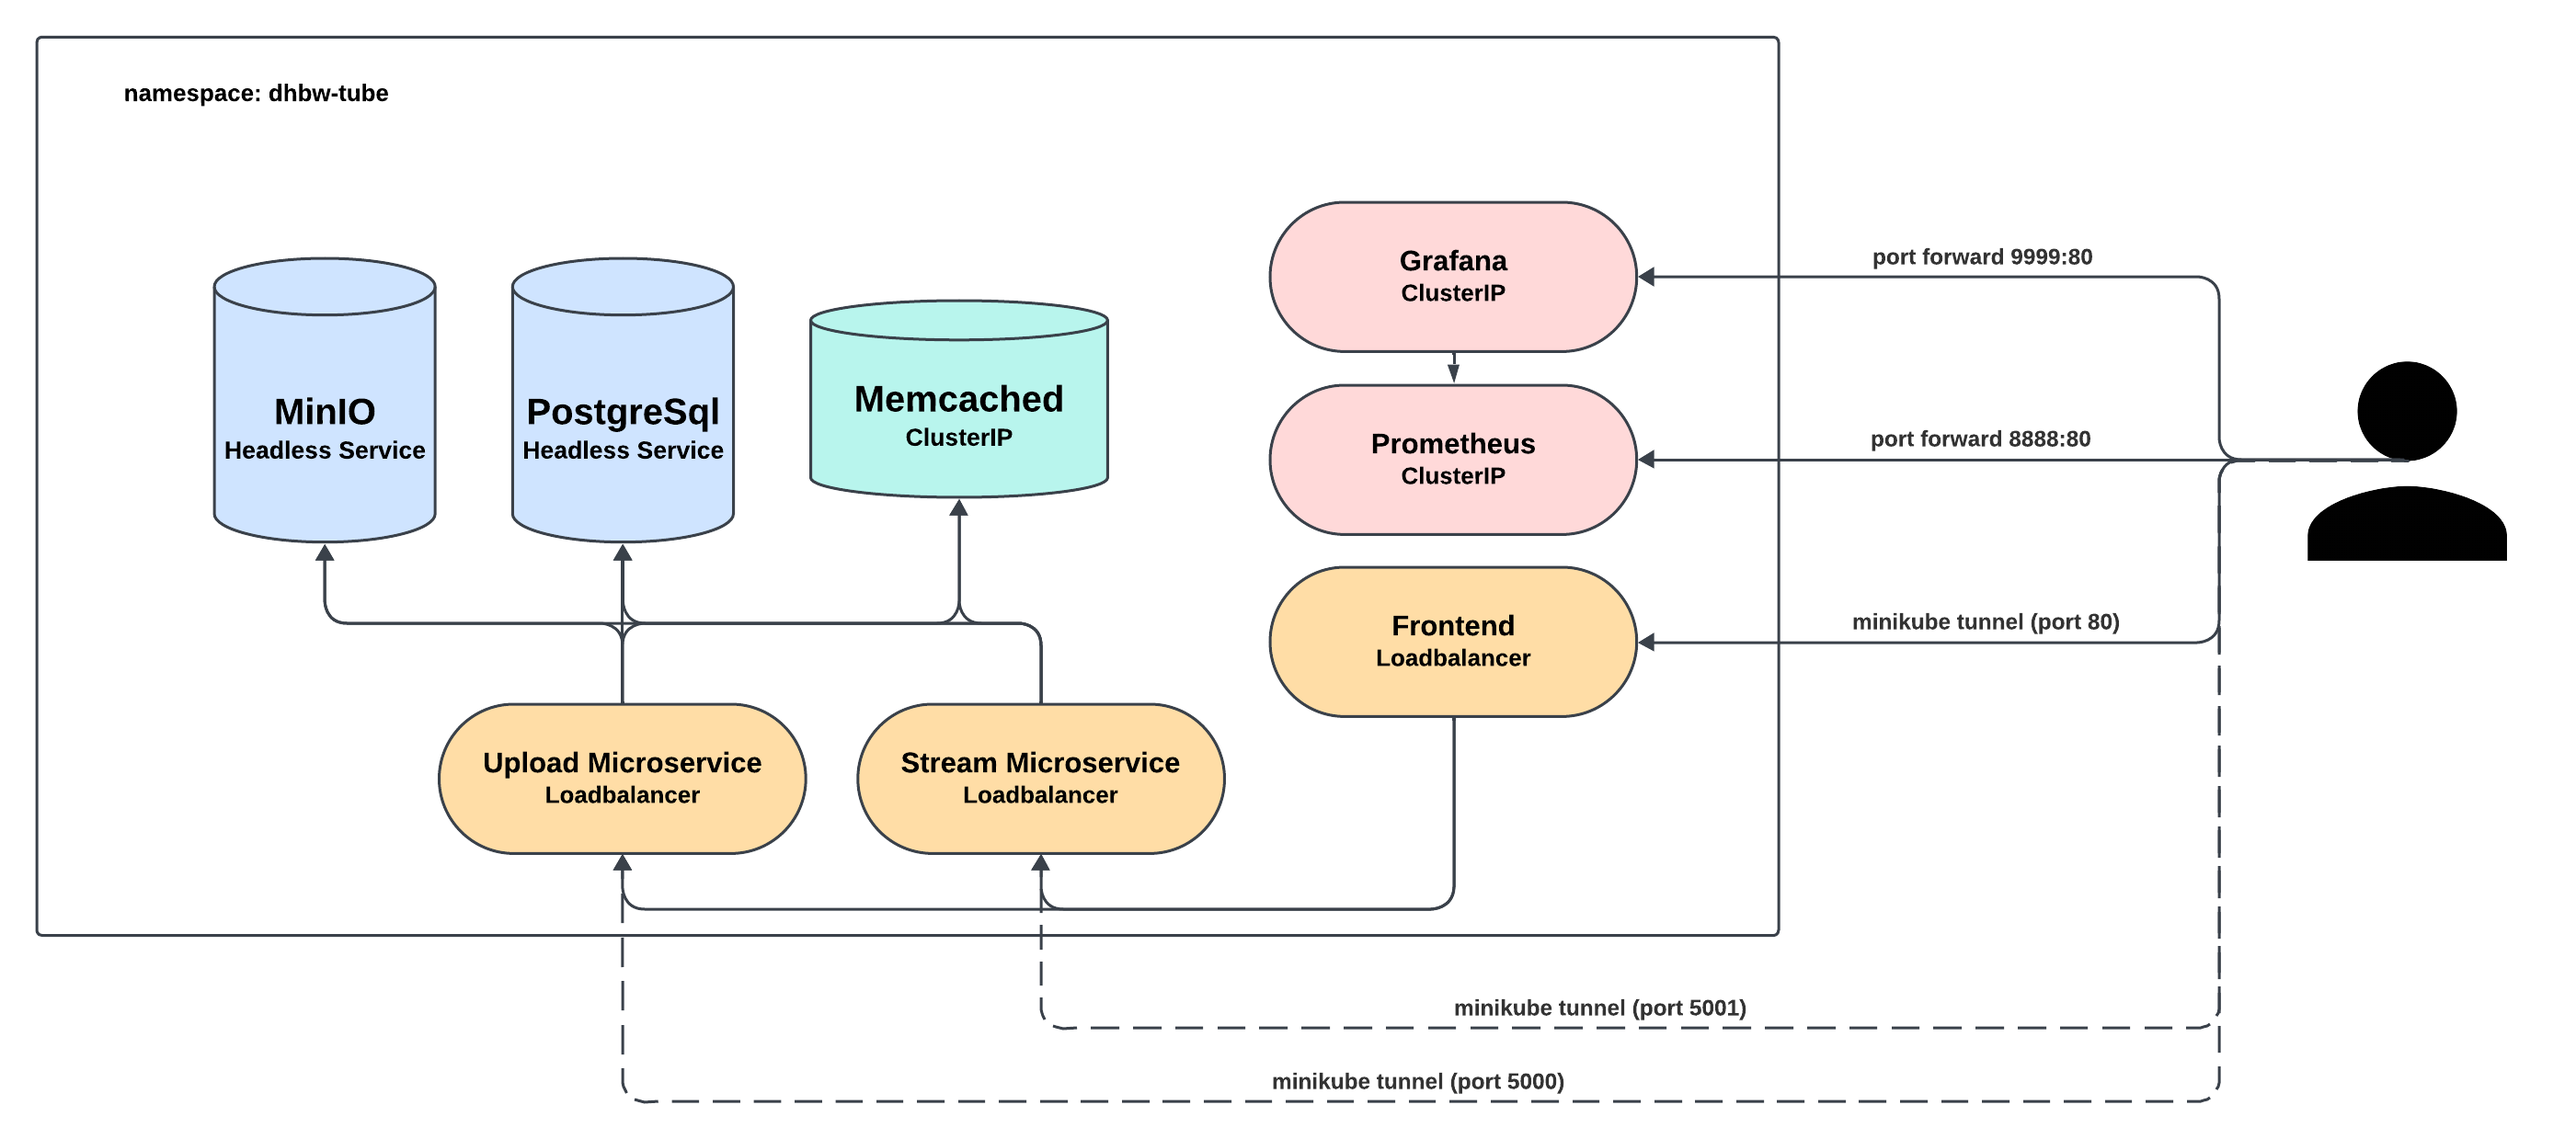
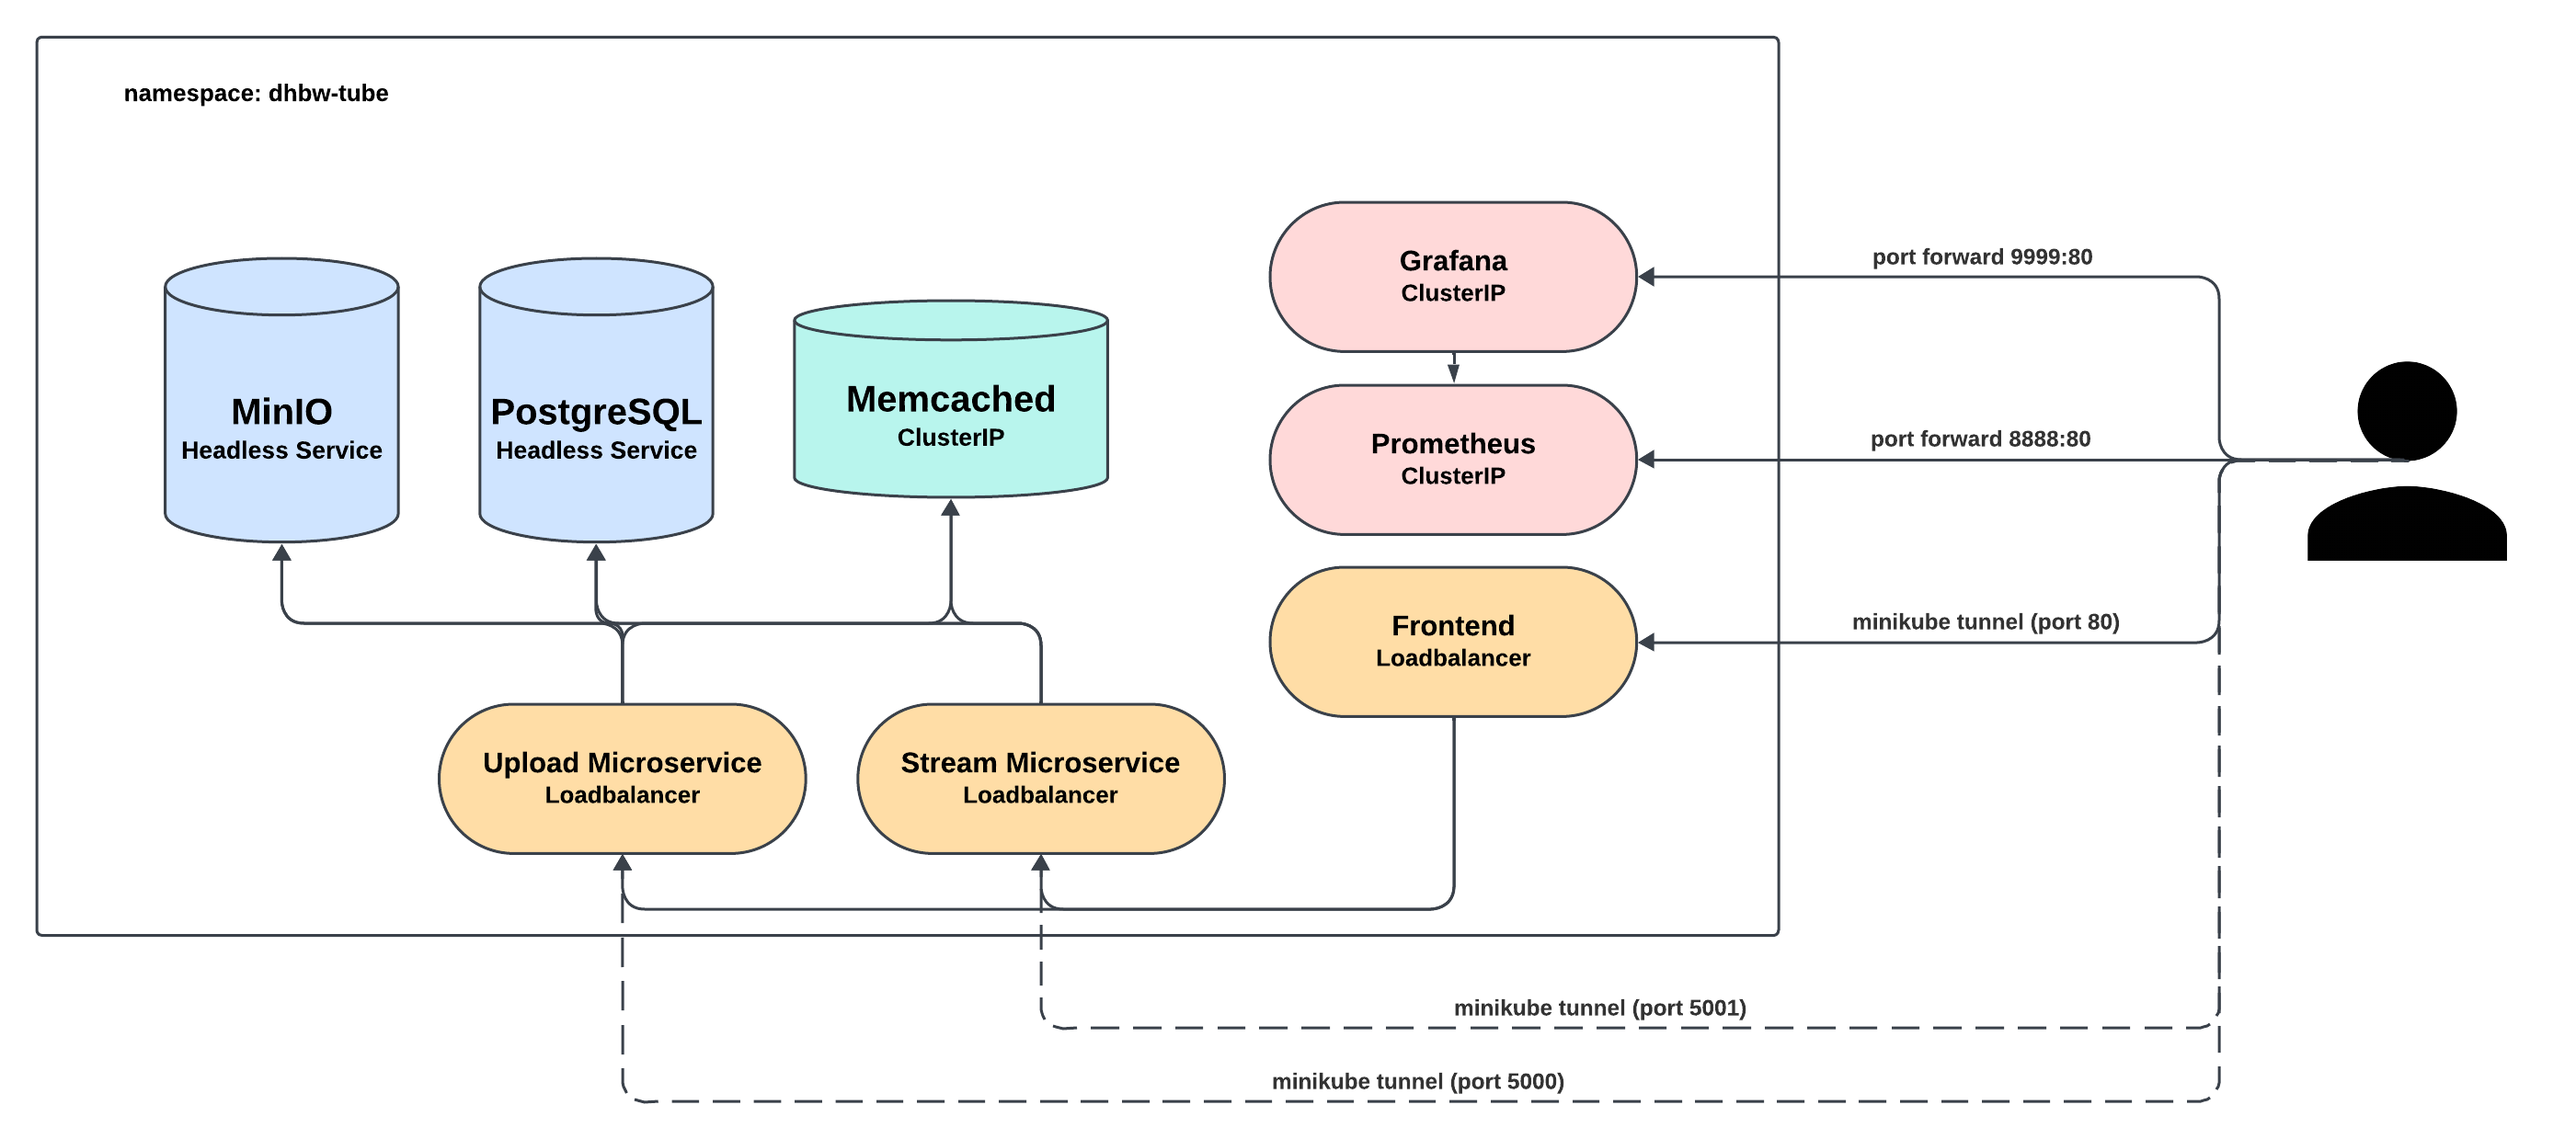
Adjusted readme

Changed region(s): [[0.0621, 0.2147, 0.4348, 0.5521], [0.3417, 0.5214, 0.3727, 0.5521], [0.3417, 0.4294, 0.3727, 0.46]]

diff --git a/README.md b/README.md
@@ -63,8 +63,8 @@ powershell -File run-dhbw-tube.ps1
 <p style="margin-top: 40px"></p>
 
 These commands each execute a script that automates the setup of a Kubernetes environment using Minikube, Skaffold, and Helm. The script performs the following steps:
-1. **Start Minikube**: The script checks if Minikube is already running. If Minikube is not running, it starts Minikube.
-2. **Delete Namespace**: If the **dhbw-tube** namespace already exists, it is deleted. The script waits until the namespace is completely removed to ensure a clean environment.
+1. **Start Minikube**: The script checks if Minikube is already running. If Minikube is not running, Minikube will be started.
+2. **Delete Namespace**: If the **dhbw-tube** namespace already exists in the kubernetes node, it will be deleted. The script waits until the namespace is completely removed to ensure a clean environment.
 3. **Create Kubernetes Environment**: The script uses **skaffold** to create the Kubernetes environment according to the configuration in the **skaffold.yaml** file.
 4. **Add Prometheus Helm Repository**: The script checks if the **Prometheus Helm Repository** has already been added. If not, it adds the repository and updates the Helm repositories.
 5. **Add Grafana Helm Repository**: The script checks if the **Grafana Helm Repository** has already been added. If not, it adds the repository and updates the Helm repositories.
@@ -109,9 +109,9 @@ powershell -File run-k8s-dev.ps1
 
 These commands each execute a script that automates the setup of a Kubernetes environment using Minikube, Helm, and Skaffold. The script performs the following steps:
 1. **Start Minikube**: 
-The script checks if Minikube is already running. If Minikube is not running, it starts Minikube.
+The script checks if Minikube is already running. If Minikube is not running, Minikube will be started.
 2. **Delete Namespace**:
-If the **dhbw-tube** namespace already exists, it is deleted. The script waits until the namespace is completely removed to ensure a clean environment.
+If the **dhbw-tube** namespace already exists, it will be deleted. The script waits until the namespace is completely removed to ensure a clean environment.
 3. **Add Prometheus Helm Repository**:
 The script checks if the **Prometheus Helm Repository** has already been added. If not, it adds the repository and updates the Helm repositories.
 4. **Add Grafana Helm Repository**:
@@ -135,10 +135,11 @@ To add Prometheus and Grafana, you can use the following commands:
 ```
 helm install prometheus prometheus-community/prometheus \
   --namespace dhbw-tube \
+  -f k8s/prometheus/prometheus-values.yaml \
   --set server.global.scrape_interval="15s"
 helm install grafana grafana/grafana \
   --namespace dhbw-tube \
-  --set adminPassword="admin"
+  -f k8s/grafana/grafana-values.yaml
 ```
 
 To access the Prometheus and Grafana user interfaces, you can set up the port forwards for the respective services with the following commands:
@@ -164,53 +165,53 @@ In the following sections, the Kubernetes resources used in the DHBW-Tube applic
 
 <p style="margin-top: 40px"></p>
 
-### Postgres
-A PostgresSQL database server is used to store the metadata of the uploaded files. The following resources are used for this:
-StatefulSet: Used for Postgres to ensure that each instance has a stable network ID and stable storage. This is particularly important for databases that require consistent data storage and identity.
-Headless Service: Used in combination with StatefulSets to provide direct addressing to the pods without using a load balancer. This is important for database replication and partitioning.
-ConfigMap: Contains configuration data for the Postgres server.
-PersistentVolumeClaim: Provides persistent storage for the Postgres database to prevent data loss on pod restarts.
+### PostgreSQL
+A PostgreSQL database server is used to store the metadata of the uploaded files. The following resources are used for this:
+- StatefulSet: Used for PostgreSQL to ensure that each instance has a stable network ID and stable storage. This is particularly important for databases that require consistent data storage and identity.
+- Headless Service: Used in combination with StatefulSets to provide direct addressing to the pods without using a load balancer. This is important for database replication and partitioning.
+- ConfigMap: Contains configuration data for the PostgreSQL server.
+- PersistentVolumeClaim: Provides persistent storage for the PostgreSQL database to prevent data loss on pod restarts.
 
 ### MinIO
 A MinIO database server is used to store the files that users upload.
-StatefulSet: Used to run MinIO with stable network IDs and persistent storage. This is important for file storage management as MinIO requires consistent identity and access to data.
-Headless Service: In combination with the StatefulSet, this allows MinIO to address its instances directly. This is important for managing and scaling the storage instances.
-PersistentVolumeClaim: Secures the storage space for the MinIO data and ensures continuous availability of the uploaded files.
+- StatefulSet: Used to run MinIO with stable network IDs and persistent storage. This is important for file storage management as MinIO requires consistent identity and access to data.
+- Headless Service: In combination with the StatefulSet, this allows MinIO to address its instances directly. This is important for managing and scaling the storage instances.
+- PersistentVolumeClaim: Secures the storage space for the MinIO data and ensures continuous availability of the uploaded files.
 
 ### Upload Microservice
-The upload microservice was developed in Python and provides Flask APIs. This microservice enables the storage of videos, images and metadata.
-Deployment: Responsible for the deployment and scaling of the upload pods.
-Service (load balancer): Ensures that the upload service is accessible from the outside and optimizes the distribution of incoming REST API requests sent from the frontend.
-ConfigMap: Contains configuration data for the upload service.
+The upload microservice was developed in Python with the Flask web framework. This microservice provides REST-APIs to store videos, images and metadata.
+- Deployment: Responsible for the deployment and scaling of the upload pods.
+- Service (load balancer): Ensures that the upload service is accessible from the outside and optimizes the distribution of incoming REST-API requests sent from the frontend.
+- ConfigMap: Contains configuration data for the upload service.
 
 ### Stream Microservice
-The Stream microservice was developed in Python and provides Flask APIs. The microservice can be used to stream videos and images and retrieve metadata.
-Deployment: Responsible for the provision and scaling of the stream pods.
-Service (load balancer): Enables access to the stream service from the outside and optimizes the distribution of incoming REST API requests sent from the frontend.
-ConfigMap: Contains configuration data for the stream service.
+The stream microservice was developed in Python with the Flask web framework. The microservice can be used to stream videos and images and retrieve metadata.
+- Deployment: Responsible for the provision and scaling of the stream pods.
+- Service (load balancer): Enables access to the stream service from the outside and optimizes the distribution of incoming REST API requests sent from the frontend.
+- ConfigMap: Contains configuration data for the stream service.
 
 ### Memcached
 A memcached is used to cache the video metadata. The reduced database requests are intended to ensure the performance of the application. The cache is currently only used in the stream microservice for metadata requests, as the MinIO database is already optimized for file streaming.
-Deployment: Responsible for the provisioning and scaling of the Memcached pods.
-Service: Provides the Memcached service, which is used by other components to cache metadata.
+- Deployment: Responsible for the provisioning and scaling of the Memcached pods.
+- Service: Provides the Memcached service, which is used by other components to cache metadata.
 
 ### Frontend
-The frontend was developed as a single page web application with the Quasar (Vue) framework. The build files are located on an nginx server, which coordinates the outgoing HTTP requests. Users can operate the application via the user interface.
-Deployment: Manages the deployment and scaling of the front-end pods.
-Service (load balancer): Enables external access to the user interface and optimizes the distribution of user requests.
-ConfigMap: Contains configuration data for the frontend server (nginx configuration).
+The frontend was developed as a single page web application with the Quasar (Vue.js) framework. The build files are located on an nginx server, which coordinates the outgoing HTTP requests. Users can operate the DHBW-Tube application via this user interface.
+- Deployment: Manages the deployment and scaling of the frontend pods.
+- Service (load balancer): Enables external access to the user interface and optimizes the distribution of user requests.
+- ConfigMap: Contains configuration data for the frontend server (nginx configuration).
 
 ### Prometheus
-A Prometheus integration is used to collect data about the status of Kubernetes resources. Accordingly, the Deployment-/StatefulSet resources have the necessary Prometheus annotations. Prometheus is installed with the following configuration files, resources and helm:
-PersistentVolume: Required to persist Prometheus data and ensure no data is lost on pod restarts.
-PersistentVolumeClaims: Ensures that the necessary storage space is provided for the Prometheus data.
-Helm Values: Configuration files used when installing Prometheus via Helm to make specific settings and customizations.
+A Prometheus integration is used to collect data about the status of Kubernetes resources. Accordingly, the Deployments and StatefulSets have the necessary Prometheus annotations. Prometheus is installed with the following configuration files, resources and helm:
+- PersistentVolume: Required to persist Prometheus data and ensure no data is lost on pod restarts.
+- PersistentVolumeClaims: Ensures that the necessary storage space is provided for the Prometheus data.
+- Helm Values: Configuration files used when installing Prometheus via Helm to make specific settings and customizations.
 
 ### Grafana
-A Grafana integration is used to visualize the Prometheus data in dashboards. Prometheus is installed with the following Kubernetes resources and Helm:
-PersistentVolume: Used to permanently store Grafana data and ensure that dashboards and configurations are not lost.
-PersistentVolumeClaims: Provides the required storage space for Grafana.
-Helm Values: Configuration files that are used when installing Grafana via Helm to make specific settings and customizations.
+A Grafana integration is used to visualize the Prometheus data in dashboards. Grafana is installed with the following Kubernetes resources and Helm:
+- PersistentVolume: Used to permanently store Grafana data and ensure that dashboards and configurations are not lost.
+- PersistentVolumeClaims: Provides the required storage space for Grafana.
+- Helm Values: Configuration files that are used when installing Grafana via Helm to make specific settings and customizations.
 
 ### Kubernetes Secrets
 Kubernetes Secrets are objects used to store sensitive information such as passwords, tokens, and keys, which are essential for the secure operation of applications within a Kubernetes cluster.
@@ -219,6 +220,8 @@ By using Secrets, Kubernetes allows for the separation of sensitive data from ap
 It is considered best practice not to store Secrets YAML files in a repository to ensure security. 
 Instead, these files should be stored and managed locally or in a secure secret management system such as HashiCorp Vault, AWS Secrets Manager, or Azure Key Vault. 
 However, since this is a sample application for an academic project and not a production system, this approach has been bypassed, and the Kubernetes Secret files are included in the repository.
+
+The following Secrets are used in the DHBW-Tube application:
 - Postgres
 - MinIO
 - Grafana
@@ -231,8 +234,9 @@ Headless services are used in conjunction with StatefulSets to ensure direct and
 Prometheus and Grafana are used to monitor and visualize system status, while Secrets are used to protect sensitive data.
 
 The following image shows the rough concept and the communication between the Kubernetes resources.
-The user can access the front end of the DHBW-Tube application, the REST APIs of the Upload and Stream microservices and the Prometheus and Grafana user interfaces.
-The frontend uses the interfaces of the Upload and Stream microservices, which in turn have connections to the PostgreSql and MinIO databases.
-The Stream microservice also uses Memcached.
+The user can access the frontend of the DHBW-Tube application and the user interfaces of Prometheus and Grafana.
+As the upload and stream microservices are accessible from the outside, the user can access them via the REST-APIs.
+The frontend uses the REST-APIs of the upload and stream microservices, which in turn have connections to the PostgreSQL and MinIO databases.
+The stream microservice also uses Memcached.
 Grafana accesses the data from Prometheus and Prometheus scrapes data from the pods. 
 ![Concept image](assets/concept.png)
